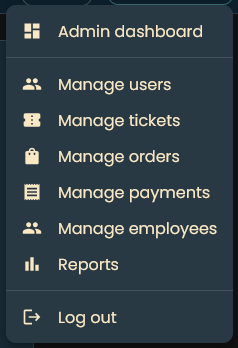
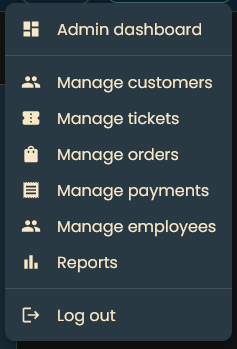
Update front documentation

diff --git a/resources/views/frontend.blade.php b/resources/views/frontend.blade.php
@@ -335,10 +335,10 @@
         <div class="section" id="admin">
             <h2 data-icon="🛠">4. Admin</h2>
             <h3>4.1 Sign In (with optional “Remember me” and 2FA via Google Authenticator)</h3>
-            <p>As an admin, you can log in to access your profile, manage the users, tickets, orders, payments, employees, and complete see reports.</p>
-            <p>Click the “Login” button in the navigation bar or on the login page. By checking “Remember me”, you will stay logged in for 7 days.</p>
-            <p>Enter your registered email and password. If two-factor authentication (2FA) is enabled, enter the code from your authenticator app.</p>
-            <p>Once logged in, you can access your profile, and the management interfaces.</p>
+            <p>As an administrator, you can sign in to access your profile, manage users, tickets, orders, payments, employees, and view reports.</p>
+            <p>Click the “Login” button in the navigation bar or on the login page. If you check “Remember me,” your session will persist for 7 days.</p>
+            <p>Enter your registered email address and password. If two-factor authentication (2FA) is enabled, enter the code from your authenticator app.</p>
+            <p>Once signed in, you’ll have access to your profile and all administrative interfaces.</p>
             <a href="{{ asset('/images/menu_login.png') }}" target="_blank" rel="noopener">
                 <img src="{{ asset('/images/menu_login.png') }}" alt="Login example">
             </a>
@@ -347,75 +347,103 @@
             </a>
 
             <h3>4.2 Admin Dashboard</h3>
-            <p>After logging in, you will be redirected to your dashboard.</p>
-            <p>Here you can view and update your personal information.</p>
-            <p>You can change your first and last name.</p>
-            <p class="note">Only one admin account exists actually.</p>
-            <p>You can also update your email address.</p>
-            <p class="note">
-                If you change your email, you’ll receive a verification link (valid for 1 hour) and a cancellation link (valid for 48 hours) in case you did not request the change.
-            </p>
-            <p>Finally, you can change your password by providing your current password and choosing a new one.</p>
-            <p class="note">
-                Your new password must be at least 15 characters long and include one uppercase letter, one lowercase letter, one number, and one special character.
-            </p>
-            <p>
-                You can enable two-factor authentication here. Scan the QR code with your authenticator app (or enter the code manually). After enabling, you’ll receive recovery codes—please save them somewhere safe. You can use these codes to disable 2FA if you ever lose access to your authenticator app.
-            </p>
-            <p class="note">
-                If you lose both your recovery codes and your authenticator app, you’ll need to contact support to disable two-factor authentication.
-            </p>
+            <p>After logging in, you’ll be redirected to the Admin Dashboard.</p>
+            <p>On this page, you can:</p>
+            <ul>
+                <li>View and update your first and last name.</li>
+                <li>Change your email address.</li>
+                <li>Reset your password—enter your current password, then choose a new one.</li>
+            </ul>
+            <p class="note">There is currently only one administrator account.</p>
+            <p class="note">When you update your email, you will receive a verification link (valid for 1 hour) and a cancellation link (valid for 48 hours) in case you did not request the change.</p>
+            <p class="note">Your new password must be at least 15 characters long and include one uppercase letter, one lowercase letter, one number, and one special character.</p>
+            <p>You can also enable two-factor authentication by scanning the displayed QR code with your authenticator app (or by entering the code manually). After activation, you will receive recovery codes—store them securely. These codes let you disable 2FA if you lose access to your authenticator app.</p>
+            <p class="note">If you lose both your recovery codes and your authenticator app, contact developper to disable two-factor authentication.</p>
             <a href="{{ asset('/images/admin_dashboard.png') }}" target="_blank" rel="noopener">
                 <img src="{{ asset('/images/admin_dashboard.png') }}" alt="User Dashboard example">
             </a>
 
-            <h3>4.3 Manage users</h3>
+            <h3>4.3 Manage customers</h3>
+            <p>Each user record shows their name, email, registration date, last update date, and status (active/inactive, 2FA enabled/disabled, email verified or not).</p>
+            <p>You can edit a user’s first name, last name, and email address.</p>
+            <p class="note">Changing a customer’s email as an admin does not trigger a verification email.</p>
+            <p>You can toggle a user’s active status.</p>
+            <p class="note">An inactive user cannot sign in.</p>
+            <p>You can disable 2FA for an user but cannot enable it on their behalf.</p>
+            <p>You can manually mark a user’s email as verified if they experienced delivery issues.</p>
+            <p>Click the “See Details” button next to a user to view their full name, current email, and any pending email changes.</p>
+            <a href="{{ asset('/images/customers.png') }}" target="_blank" rel="noopener">
+                <img src="{{ asset('/images/customers.png') }}" alt="Customers List example">
+            </a>
 
             <h3>4.4 Manage tickets</h3>
-            <p>In the “Manage Tickets” section, you can view all existing tickets including some without stock.</p>
-            <p>You can update the available quantity, change the price or the sale percents.</p>
-            <p>You can also create new tickets by clicking the “Create Ticket” button.</p>
+            <p>Under “Manage Tickets,” you can see all tickets, including those with zero stock.</p>
+            <p>You can update the available quantity, adjust the price, or modify the sale percentage.</p>
+            <p>You can create a new ticket by clicking “Create Ticket.”</p>
             <a href="{{ asset('/images/tickets_admin.png') }}" target="_blank" rel="noopener">
                 <img src="{{ asset('/images/tickets_admin.png') }}" alt="Tickets List example">
             </a>
             <h4>Create Ticket</h4>
-            <p>To create a new ticket, click the “Create Ticket” button.</p>
-            <p>You have to fill all the fields in all 3 languages such as name, description, price, and available quantity.</p>
-            <p>And you have to add an image, the image must be in JPG, JPEG, PNG, GIF, or SVG format and not exceed 2 MB.</p>
-            <p>Once you have filled in all the necessary information, click "Save Changes" to save the ticket.</p>
+            <p>Click the “Create Ticket” button.</p>
+            <p>Complete all required fields in all supported languages: name, description, price, and available quantity.</p>
+            <p>Upload an image (JPG, JPEG, PNG, GIF, or SVG; max 2 MB).</p>
+            <p>When finished, click “Save Changes” to add the ticket.</p>
             <a href="{{ asset('/images/tickets_create.png') }}" target="_blank" rel="noopener">
                 <img src="{{ asset('/images/tickets_create.png') }}" alt="Create Ticket example">
             </a>
-            <h4>Change Price, sale or quantity</h4>
-            <p>You can update easily in the list each price, sale or quantity in stock.</p>
-            <p>Update the fields you want to change and click "Save Changes" to apply.</p>
-            <p class="note">Some changes can take few time before they appears on the site.</p>
+            <h4>Modify Price, Sale, or Quantity</h4>
+            <p>In the ticket list, edit the price, sale percentage, or quantity directly.</p>
+            <p>Click “Save Changes” to apply your updates.</p>
+            <p class="note">Updates may take a few moments to appear on the live site.</p>
             <h4>Update Ticket Details</h4>
-            <p>To update a ticket, click the "Update Details" button next to the ticket you want to modify.</p>
-            <p>You can change all details in one ticket, take care to change it in all languages if needed.</p>
-            <p>You have not to add a new image, if you wont change it.</p>
-            <p>Click on the "Save Changes" to apply your changes.</p>
-            <p class="note">All fields needs to be filled and the image must be in JPG, JPEG, PNG, GIF, or SVG format and not exceed 2 MB. Some changes can take few time before they appears on the site.</p>
+            <p>Click “Update Details” next to the ticket you wish to modify.</p>
+            <p>You can change any field, and you do not need to re-upload the image if it remains the same.</p>
+            <p>Click “Save Changes” to commit your edits.</p>
+            <p class="note">All fields are required. The image must meet the same format and size constraints.</p>
             <a href="{{ asset('/images/tickets_update.png') }}" target="_blank" rel="noopener">
                 <img src="{{ asset('/images/tickets_update.png') }}" alt="Update Ticket example">
             </a>
             <h4>Duplicate Ticket</h4>
-            <p>To duplicate a ticket, click the "Duplicate Ticket" button next to the ticket you want to copy.</p>
-            <p>This will create a new ticket with the same details, which you can then modify as needed.</p>
-            <p class="note">This is useful for creating similar tickets without having to fill in all the details again.</p>
+            <p>Click “Duplicate Ticket” next to the ticket you want to copy.</p>
+            <p>A new ticket with the same details will be created for you to modify.</p>
+            <p class="note">This speeds up creating similar tickets.</p>
             <a href="{{ asset('/images/tickets_duplicate.png') }}" target="_blank" rel="noopener">
                 <img src="{{ asset('/images/tickets_duplicate.png') }}" alt="Duplicate Ticket example">
             </a>
-            <p class="note">All fields needs to be filled and the image must be in JPG, JPEG, PNG, GIF, or SVG format and not exceed 2 MB. Some changes can take few time before they appears on the site.</p>
             <h4>Delete Ticket</h4>
-            <p>It is not possible to delete a ticket, but you can set the available quantity to 0.</p>
-            <p>This will remove the ticket from the site and prevent it from being purchased.</p>
+            <p>You cannot delete a ticket directly; set its available quantity to 0 instead.</p>
+            <p>The ticket will no longer appear on the site or be purchasable.</p>
 
             <h3>4.5 Manage orders</h3>
 
             <h3>4.6 Manage payments</h3>
 
             <h3>4.7 Manage employees</h3>
+            <p>In the “Manage Employees” section, you can view all registered employees.</p>
+            <p>Each employee record shows their first name, last name, email address, registration date, last update date, and status (active/inactive, 2FA enabled/disabled, email verified or not).</p>
+            <p>You can edit an employee’s first name, last name, and email address.</p>
+            <p class="note">Changing an employee’s email as an administrator does not trigger a verification email.</p>
+            <p>You can also toggle an employee’s active status.</p>
+            <p class="note">If an employee is deactivated, they cannot sign in.</p>
+            <p>You can disable 2FA for an employee, but you cannot enable it on their behalf.</p>
+            <p>Finally, you can manually mark an employee’s email as verified if they experienced delivery issues.</p>
+            <p>Click the “See Details” button next to an employee to view their full name, current email, and any pending email change.</p>
+            <a href="{{ asset('/images/employees.png') }}" target="_blank" rel="noopener">
+                <img src="{{ asset('/images/employees.png') }}" alt="Employees List example">
+            </a>
+            <h4>Create Employee</h4>
+            <p>Click the “Create Employee” button to add a new employee.</p>
+            <ul>
+                <li>Enter the employee’s first name and last name.</li>
+                <li>Provide a valid email address.</li>
+                <li>Choose a secure password and confirm it.</li>
+            </ul>
+            <p>Once all fields are completed, click “Create Employee” to save.</p>
+            <p class="note">Passwords must be at least 15 characters long and include one uppercase letter, one lowercase letter, one number, and one special character.
+            Newly created employees are automatically activated and their email is marked as verified.</p>
+            <a href="{{ asset('/images/employees_create.png') }}" target="_blank" rel="noopener">
+                <img src="{{ asset('/images/employees_create.png') }}" alt="Create Employee example">
+            </a>
 
             <h3>4.8 Reports</h3>
 

diff --git a/app/Http/Controllers/Api/UserController.php b/app/Http/Controllers/Api/UserController.php
@@ -27,10 +27,10 @@ class UserController extends Controller
      *
      *     @OA\Parameter(name="page", in="query", description="Page number", @OA\Schema(type="integer", default=1)),
      *     @OA\Parameter(name="per_page", in="query", description="Items per page", @OA\Schema(type="integer", default=15)),
-     *     @OA\Parameter(name="firstname", in="query", description="Recherche par prénom (like)", @OA\Schema(type="string")),
-     *     @OA\Parameter(name="lastname",  in="query", description="Recherche par nom (like)",    @OA\Schema(type="string")),
-     *     @OA\Parameter(name="email",     in="query", description="Recherche par email (exact)",  @OA\Schema(type="string")),
-     *     @OA\Parameter(name="role",      in="query", description="Filtrer par rôle",            @OA\Schema(type="string", enum={"admin","employee","user"})),
+     *     @OA\Parameter(name="firstname", in="query", description="Search by firstname (like)", @OA\Schema(type="string")),
+     *     @OA\Parameter(name="lastname",  in="query", description="Search by name (like)",    @OA\Schema(type="string")),
+     *     @OA\Parameter(name="email",     in="query", description="Search by email (exact)",  @OA\Schema(type="string")),
+     *     @OA\Parameter(name="role",      in="query", description="Filter by roles",            @OA\Schema(type="string", enum={"admin","employee","user"})),
      *
      *     @OA\Response(
      *         response=200,
